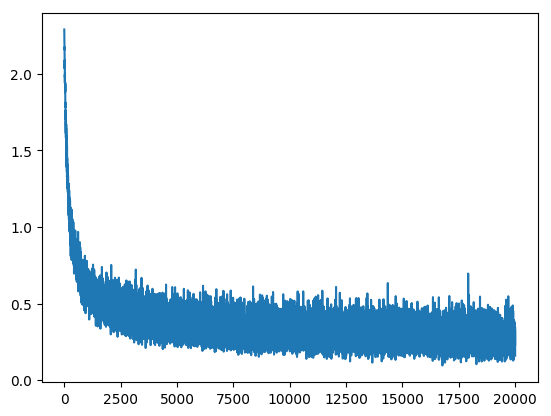
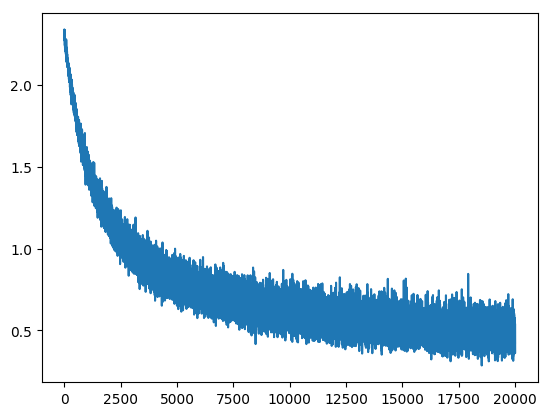
Changed learning rate for third layer to 0.01

diff --git a/PanNet1_searching_num_train3.py b/PanNet1_searching_num_train3.py
@@ -1,0 +1,118 @@
+import os
+os.environ['TF_CPP_MIN_LOG_LEVEL']='2'
+
+from tensorflow.examples.tutorials.mnist import input_data
+mnist = input_data.read_data_sets("MNIST_data", one_hot=True)
+
+import matplotlib
+matplotlib.use('Agg')
+import matplotlib.pylab as plt
+import tensorflow as tf
+import numpy as np
+
+tf.set_random_seed(123)
+np.random.seed(123)
+
+# Parameters
+num_filter1 = 4
+num_filter2 = 12
+learning_rates = 0.1
+learning_rate3 = 0.01
+num_training1 = 3000
+num_training2 = 3000
+num_training3 = 20000
+
+# Default parameters
+num_input = 784
+dim_input = 28
+num_output = 10
+standard_deviation = 0.1
+size_filter1 = 5
+size_filter2 = 5
+size_filter3 = 7
+size_batch = 100
+
+def weight_variable(shape, name):
+    initial = tf.truncated_normal(shape, stddev = standard_deviation, seed = 123)
+    return tf.Variable(initial, name= name )
+
+def bias_variable(shape, name):
+    initial = tf.constant(0.0, shape=shape)
+    return tf.Variable(initial, name= name)
+
+def conv2d(x, W):
+    return tf.nn.conv2d(x, W, strides = [1, 1, 1, 1], padding = 'SAME')
+
+def conv2d_valid(x, W):
+    return tf.nn.conv2d(x, W, strides = [1, 1, 1, 1], padding = 'VALID')
+
+def max_pool_2x2(x):
+    return tf.nn.max_pool(x, ksize = [1, 2, 2, 1],
+                          strides = [1, 2, 2, 1], padding = 'SAME')
+
+
+
+x = tf.placeholder(tf.float32, [None, num_input])  # Input layer
+y_ = tf.placeholder(tf.float32, [None, num_output])  # True values for output layer
+
+x_image = tf.reshape(x, [-1, dim_input, dim_input, 1])
+
+# First convolutional autoencoder
+W_conv1 = weight_variable([size_filter1, size_filter1, 1, num_filter1], 'W_conv1')
+b_conv1 = bias_variable([num_filter1], 'b_conv1')
+b_conv1_de = bias_variable([1], 'b_conv1_de')
+
+h_conv1 = tf.nn.relu(conv2d(x_image, W_conv1) + b_conv1)
+h_pool1 = max_pool_2x2(h_conv1)
+
+x_image_recon = tf.nn.relu(conv2d(h_conv1, tf.transpose(W_conv1, perm=[1, 0, 3, 2])) + b_conv1_de)
+
+# Second convolutional autoencoder
+W_conv2 = weight_variable([size_filter2, size_filter2, num_filter1, num_filter2], 'W_conv2')
+b_conv2 = bias_variable([num_filter2], 'b_conv2')
+b_conv2_de = bias_variable([num_filter1], 'b_conv2_de')
+
+h_conv2 = tf.nn.relu(conv2d(h_pool1, W_conv2)+b_conv2)
+h_pool2 = max_pool_2x2(h_conv2)
+
+h_pool1_recon= tf.nn.relu(conv2d(h_conv2, tf.transpose(W_conv2, perm=[1, 0, 3, 2]))+b_conv2_de)
+
+# Third convolutional layer
+W_conv3 = weight_variable([size_filter3, size_filter3, num_filter2, num_output], 'W_conv3')
+b_conv3 = bias_variable([num_output], 'b_conv3')
+
+y_tensor = conv2d_valid(h_pool2, W_conv3) + b_conv3
+y = tf.reshape(y_tensor, [-1, num_output])
+
+loss1 = tf.reduce_mean(tf.square(x_image_recon - x_image))
+loss2 = tf.reduce_mean(tf.square(h_pool1_recon - h_pool1))
+loss3 = tf.reduce_mean(tf.nn.softmax_cross_entropy_with_logits(labels=y_, logits=y))
+
+train_step1 = tf.train.GradientDescentOptimizer(learning_rates).minimize(loss1, var_list=[W_conv1, b_conv1, b_conv1_de])
+train_step2 = tf.train.GradientDescentOptimizer(learning_rates).minimize(loss2, var_list = [W_conv2, b_conv2, b_conv2_de])
+train_step3 = tf.train.GradientDescentOptimizer(learning_rate3).minimize(loss3, var_list = [W_conv3, b_conv3])
+
+sess = tf.InteractiveSession()
+sess.run(tf.global_variables_initializer())
+
+# Train
+for _ in range(num_training1):
+    batch_xs, batch_ys= mnist.train.next_batch(size_batch)
+    sess.run(train_step1, feed_dict={x: batch_xs})
+
+for _ in range(num_training2):
+    batch_xs, batch_ys= mnist.train.next_batch(size_batch)
+    sess.run(train_step2, feed_dict={x: batch_xs})
+
+loss3_data = np.zeros([num_training3, 1], dtype= float)
+
+for i in range(num_training3):
+    batch_xs, batch_ys= mnist.train.next_batch(size_batch)
+    sess.run(train_step3, feed_dict={x: batch_xs, y_:batch_ys})
+    loss3_data[i, 0] = np.asarray(sess.run([loss3], feed_dict={x: batch_xs, y_:batch_ys}))
+
+plt.plot(loss3_data)
+
+saver = tf.train.Saver()
+saver.save(sess, './PanNet1_train3')
+plt.savefig('PanNet1_train3.png', bbox_inches='tight')
